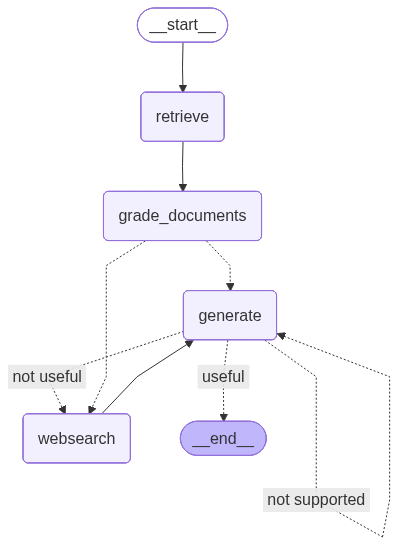
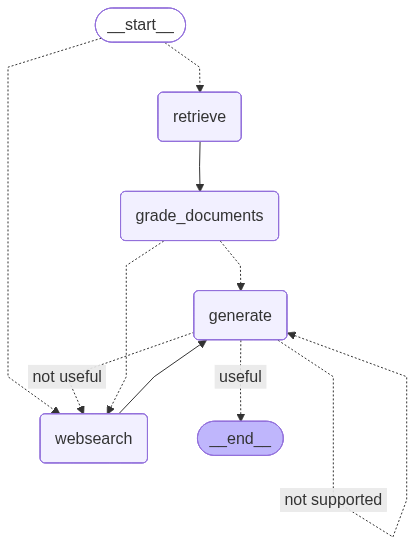
adaptive Rag

diff --git a/src/graph/graphapp.py b/src/graph/graphapp.py
@@ -3,7 +3,7 @@ from dotenv import load_dotenv
 from graph.const import RETRIEVE, WEBSEARCH, GENERATE, GRADE_DOCUMENTS
 from graph.node import retrieve, web_search, generate, grade_documents
 from graph.state import GraphState
-from graph.chain import answer_grader, hallucination_grader
+from graph.chain import answer_grader, hallucination_grader, question_router
 
 
 from langgraph.graph import END, StateGraph, END
@@ -41,6 +41,20 @@ def grade_generation_grounded_in_documents_and_question(state: GraphState):
     print("---DECISION: GENERATE IS NOT GROUNDED IN DOCUMENTS")    
     return "not supported"
 
+def router_question(state: GraphState ):
+    print("---ROUTE QUESTION---")
+    question = state['question']
+    source = question_router.invoke({"question": question})
+
+    if source.route == WEBSEARCH: 
+        print("---ROUTE QUESTION TO WEB SEARCH---")
+        return WEBSEARCH
+    elif source.route == "vectorsearch":
+        print("---ROUTE QUESTION TO VECTOR STORE---")
+        return RETRIEVE
+
+
+
 
 graph = StateGraph(GraphState)
 
@@ -49,7 +63,13 @@ graph.add_node(WEBSEARCH, web_search)
 graph.add_node(GENERATE, generate)
 graph.add_node(GRADE_DOCUMENTS, grade_documents)
 
-graph.set_entry_point(RETRIEVE)
+graph.set_conditional_entry_point(
+    router_question,
+    {
+        WEBSEARCH: WEBSEARCH,
+        RETRIEVE: RETRIEVE
+    }
+)
 graph.add_edge(RETRIEVE, GRADE_DOCUMENTS)
 graph.add_conditional_edges(GRADE_DOCUMENTS, decide_to_generate, {
     WEBSEARCH: WEBSEARCH, 

diff --git a/src/graph/chain/question_router.py b/src/graph/chain/question_router.py
@@ -1,0 +1,23 @@
+from langchain_openai import ChatOpenAI
+from langchain_core.prompts import ChatPromptTemplate
+
+from typing import Literal
+from pydantic import BaseModel, Field
+
+class RouterQuery(BaseModel):
+    route: Literal["vectorsearch", "websearch"] = Field(
+        ..., 
+        description = "Given a user's question to route it to web search or a vectorstore.")
+
+
+llm = ChatOpenAI(model="gpt-4o-mini", temperature=0)
+llm_structured_output = llm.with_structured_output(RouterQuery)
+
+system = """you are an expert at routing a user queston to a vertorstore or websearch. The vecotrstore contains documents releted to agent, prompt engineering, advarsarial attacks. use the vectorstore for the question on these topic. for all else, use web-search."""
+
+router_prompt = ChatPromptTemplate.from_messages([
+    ("system", system),
+    ("human", "{question}")
+])
+
+question_router = router_prompt | llm_structured_output

diff --git a/src/tests/test_chain.py b/src/tests/test_chain.py
@@ -1,12 +1,12 @@
 from dotenv import load_dotenv
 load_dotenv()
-import pytest
 from pprint import pprint
 from graph.chain.generation import generation_chain
 from graph.chain.hallucination_grader import hallucination_grader, GradeHallucination
 
 from graph.chain.retrieval_grader import GradeDocuments, retrieval_grader
 # from graph.chain.router import RouteQuery, question_router
+from graph.chain import question_router
 from ingestion import retriever
 
 def test_retrival_grader_answer_yes() -> None:
@@ -63,16 +63,15 @@ def test_hallucination_grader_answer_no() -> None:
     )
     assert not res.binary_score
 
-# def test_router_to_vectorstore() -> None:
-#     question = "agent memory"
 
-#     res: RouteQuery = question_router.invoke({"question": question})
-#     assert res.datasource == "vectorstore"
+def test_question_router_to_websearch()  -> None:
+    question = "how to make pizza"
+    res = question_router.invoke({"question": question})
+    assert res.route == "websearch"
 
-# def test_router_to_websearch() -> None:
-#     question = "how to make pizza"
+def test_question_router_to_vectorstore() -> None:
+    question = "agent memory"
+    res = question_router.invoke({"question": question})
 
-#     res: RouteQuery = question_router.invoke({"question": question})
-#     assert res.datasource == "websearch"
-
+    assert res.route == "vectorsearch"
 

diff --git a/main.py b/main.py
@@ -5,5 +5,5 @@ load_dotenv()
 from graph.graphapp import app
 
 if __name__ == "__main__":
-    print("Hello Advanced RAG")
-    print(app.invoke(input={"question": "types of agent memory?"}))
+    print("HELLO ADAPTIVE RAG")
+    print(app.invoke(input={"question": "what is agent memory?"}))

diff --git a/src/graph/chain/__init__.py b/src/graph/chain/__init__.py
@@ -2,10 +2,12 @@ from graph.chain.generation import generation_chain
 from graph.chain.retrieval_grader import retrieval_grader, GradeDocuments
 from graph.chain.answer_grader import answer_grader
 from graph.chain.hallucination_grader import hallucination_grader
+from graph.chain.question_router import question_router
 
 __all__ = ["generation_chain",
 "retrieval_grader",
 "GradeDocuments",
 "answer_grader",
-"hallucination_grader"
+"hallucination_grader",
+"question_router"
 ]